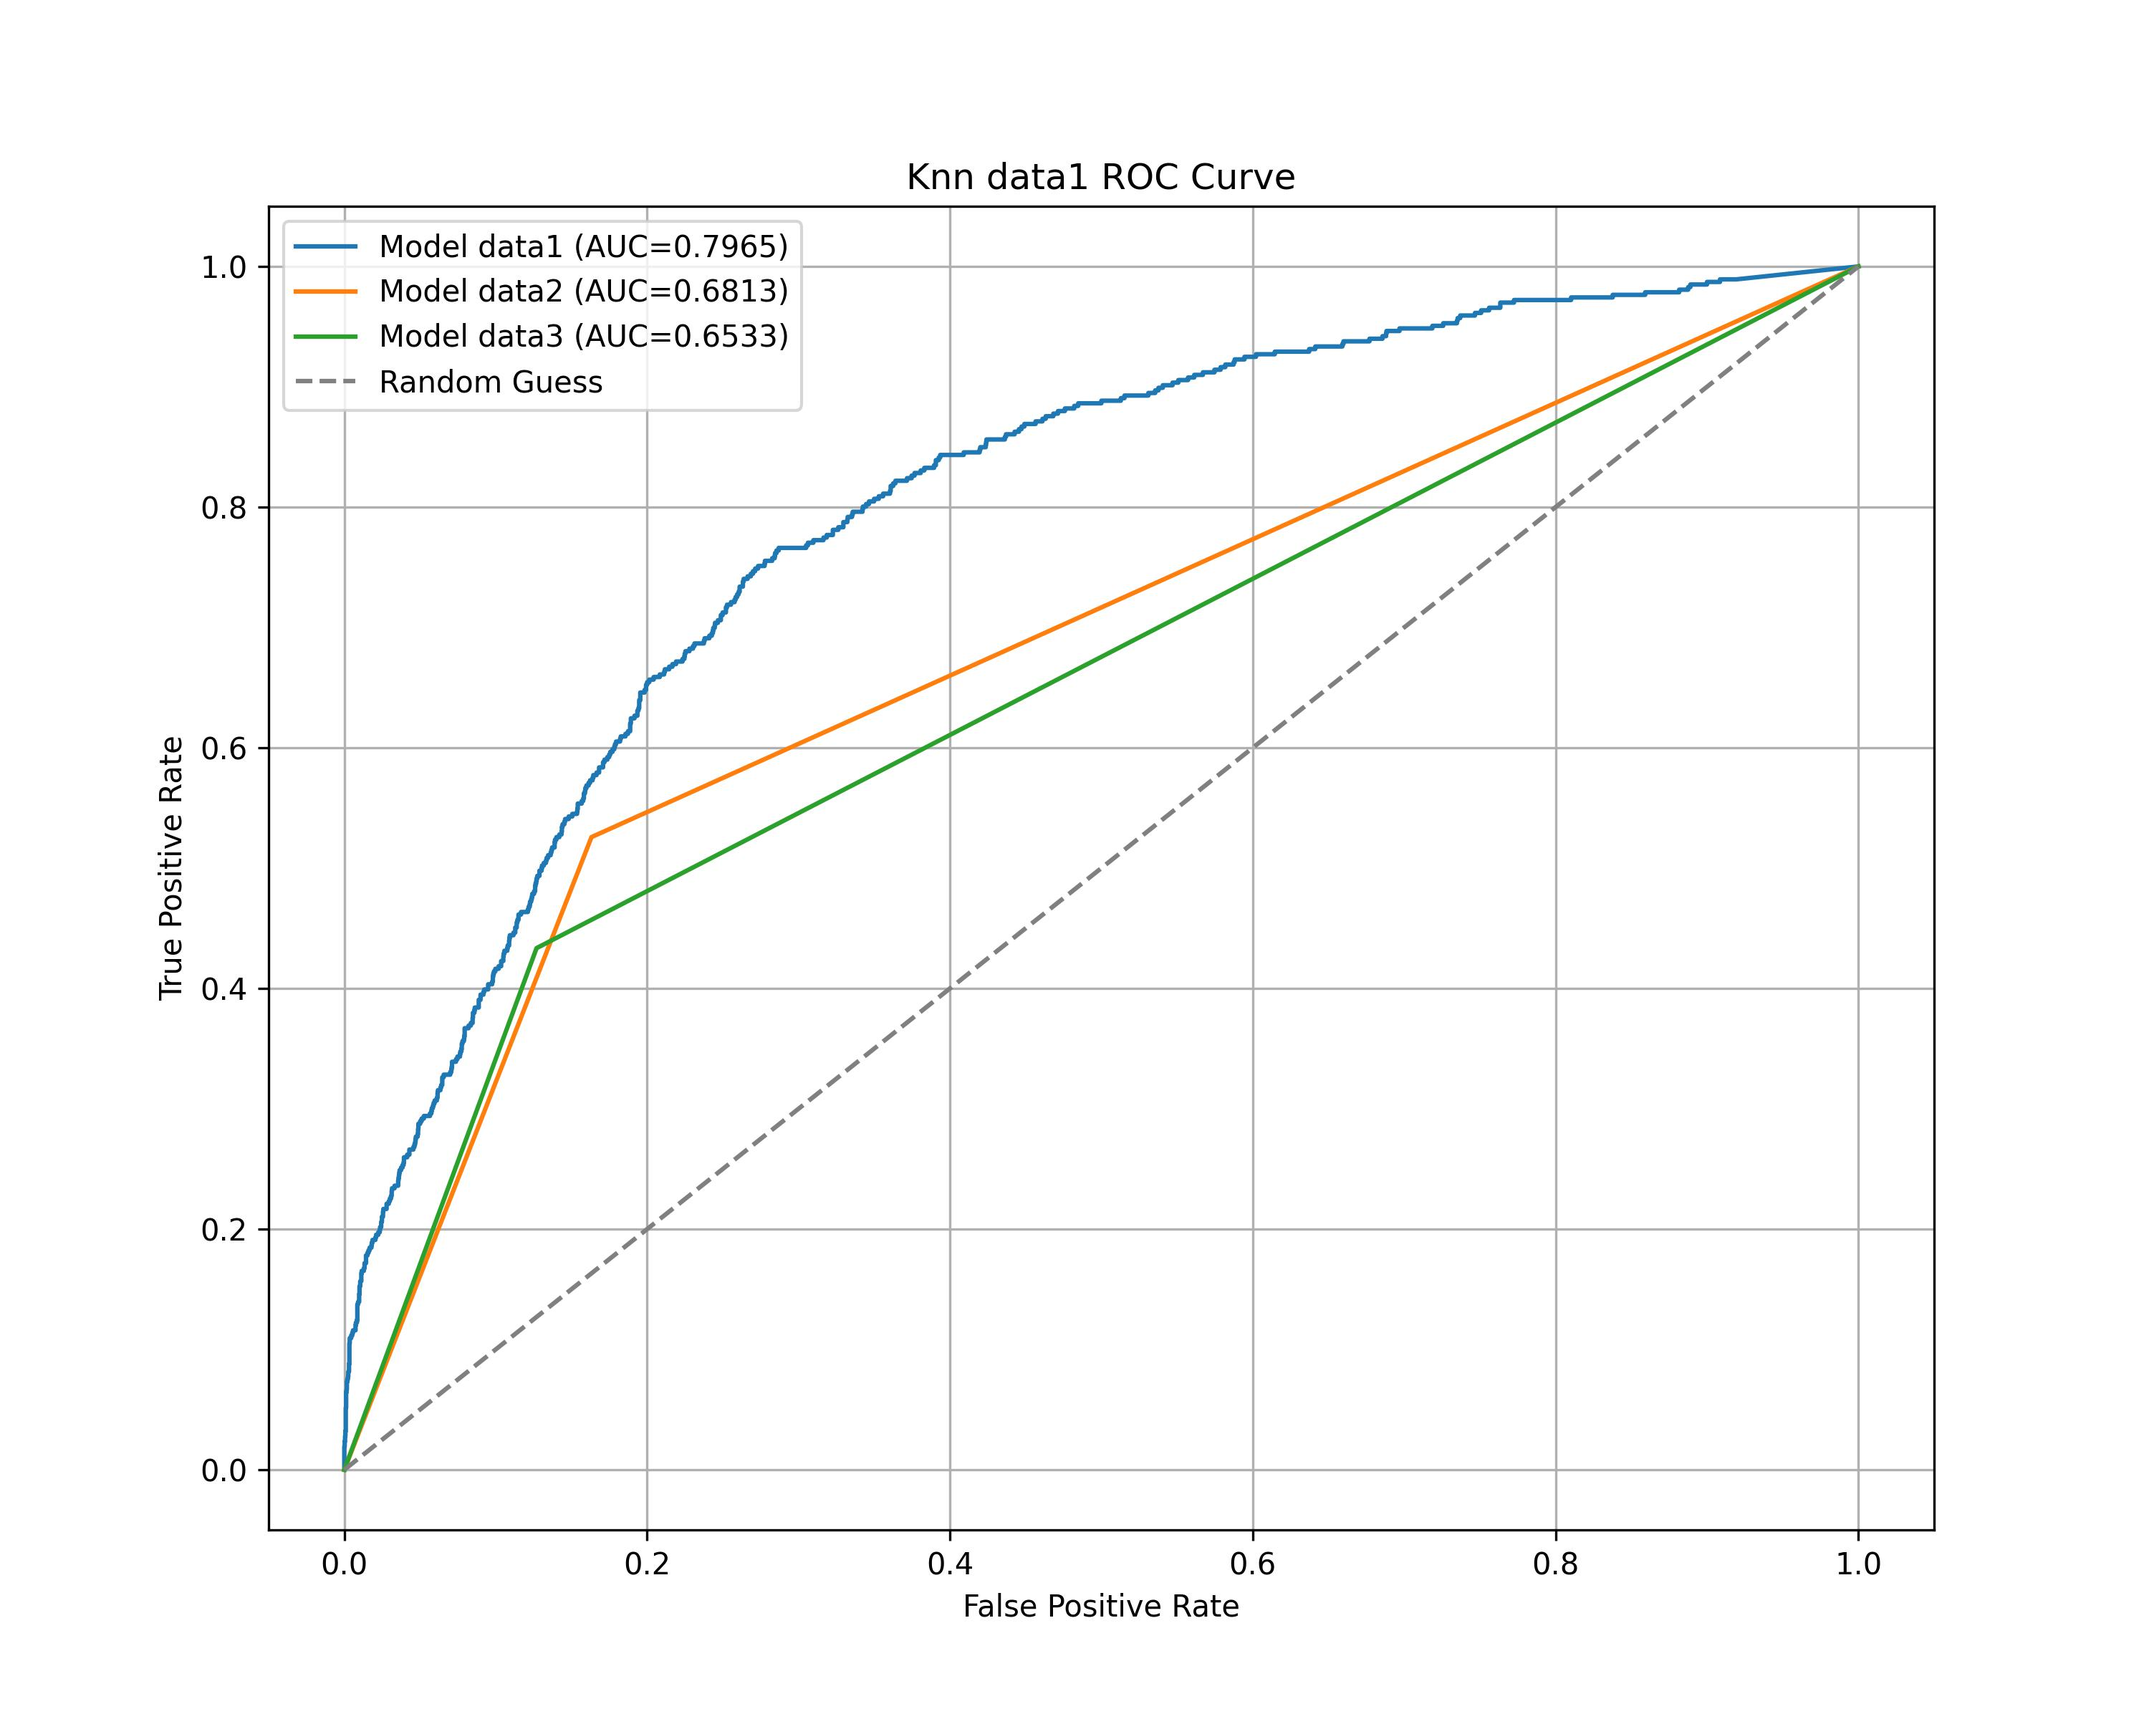
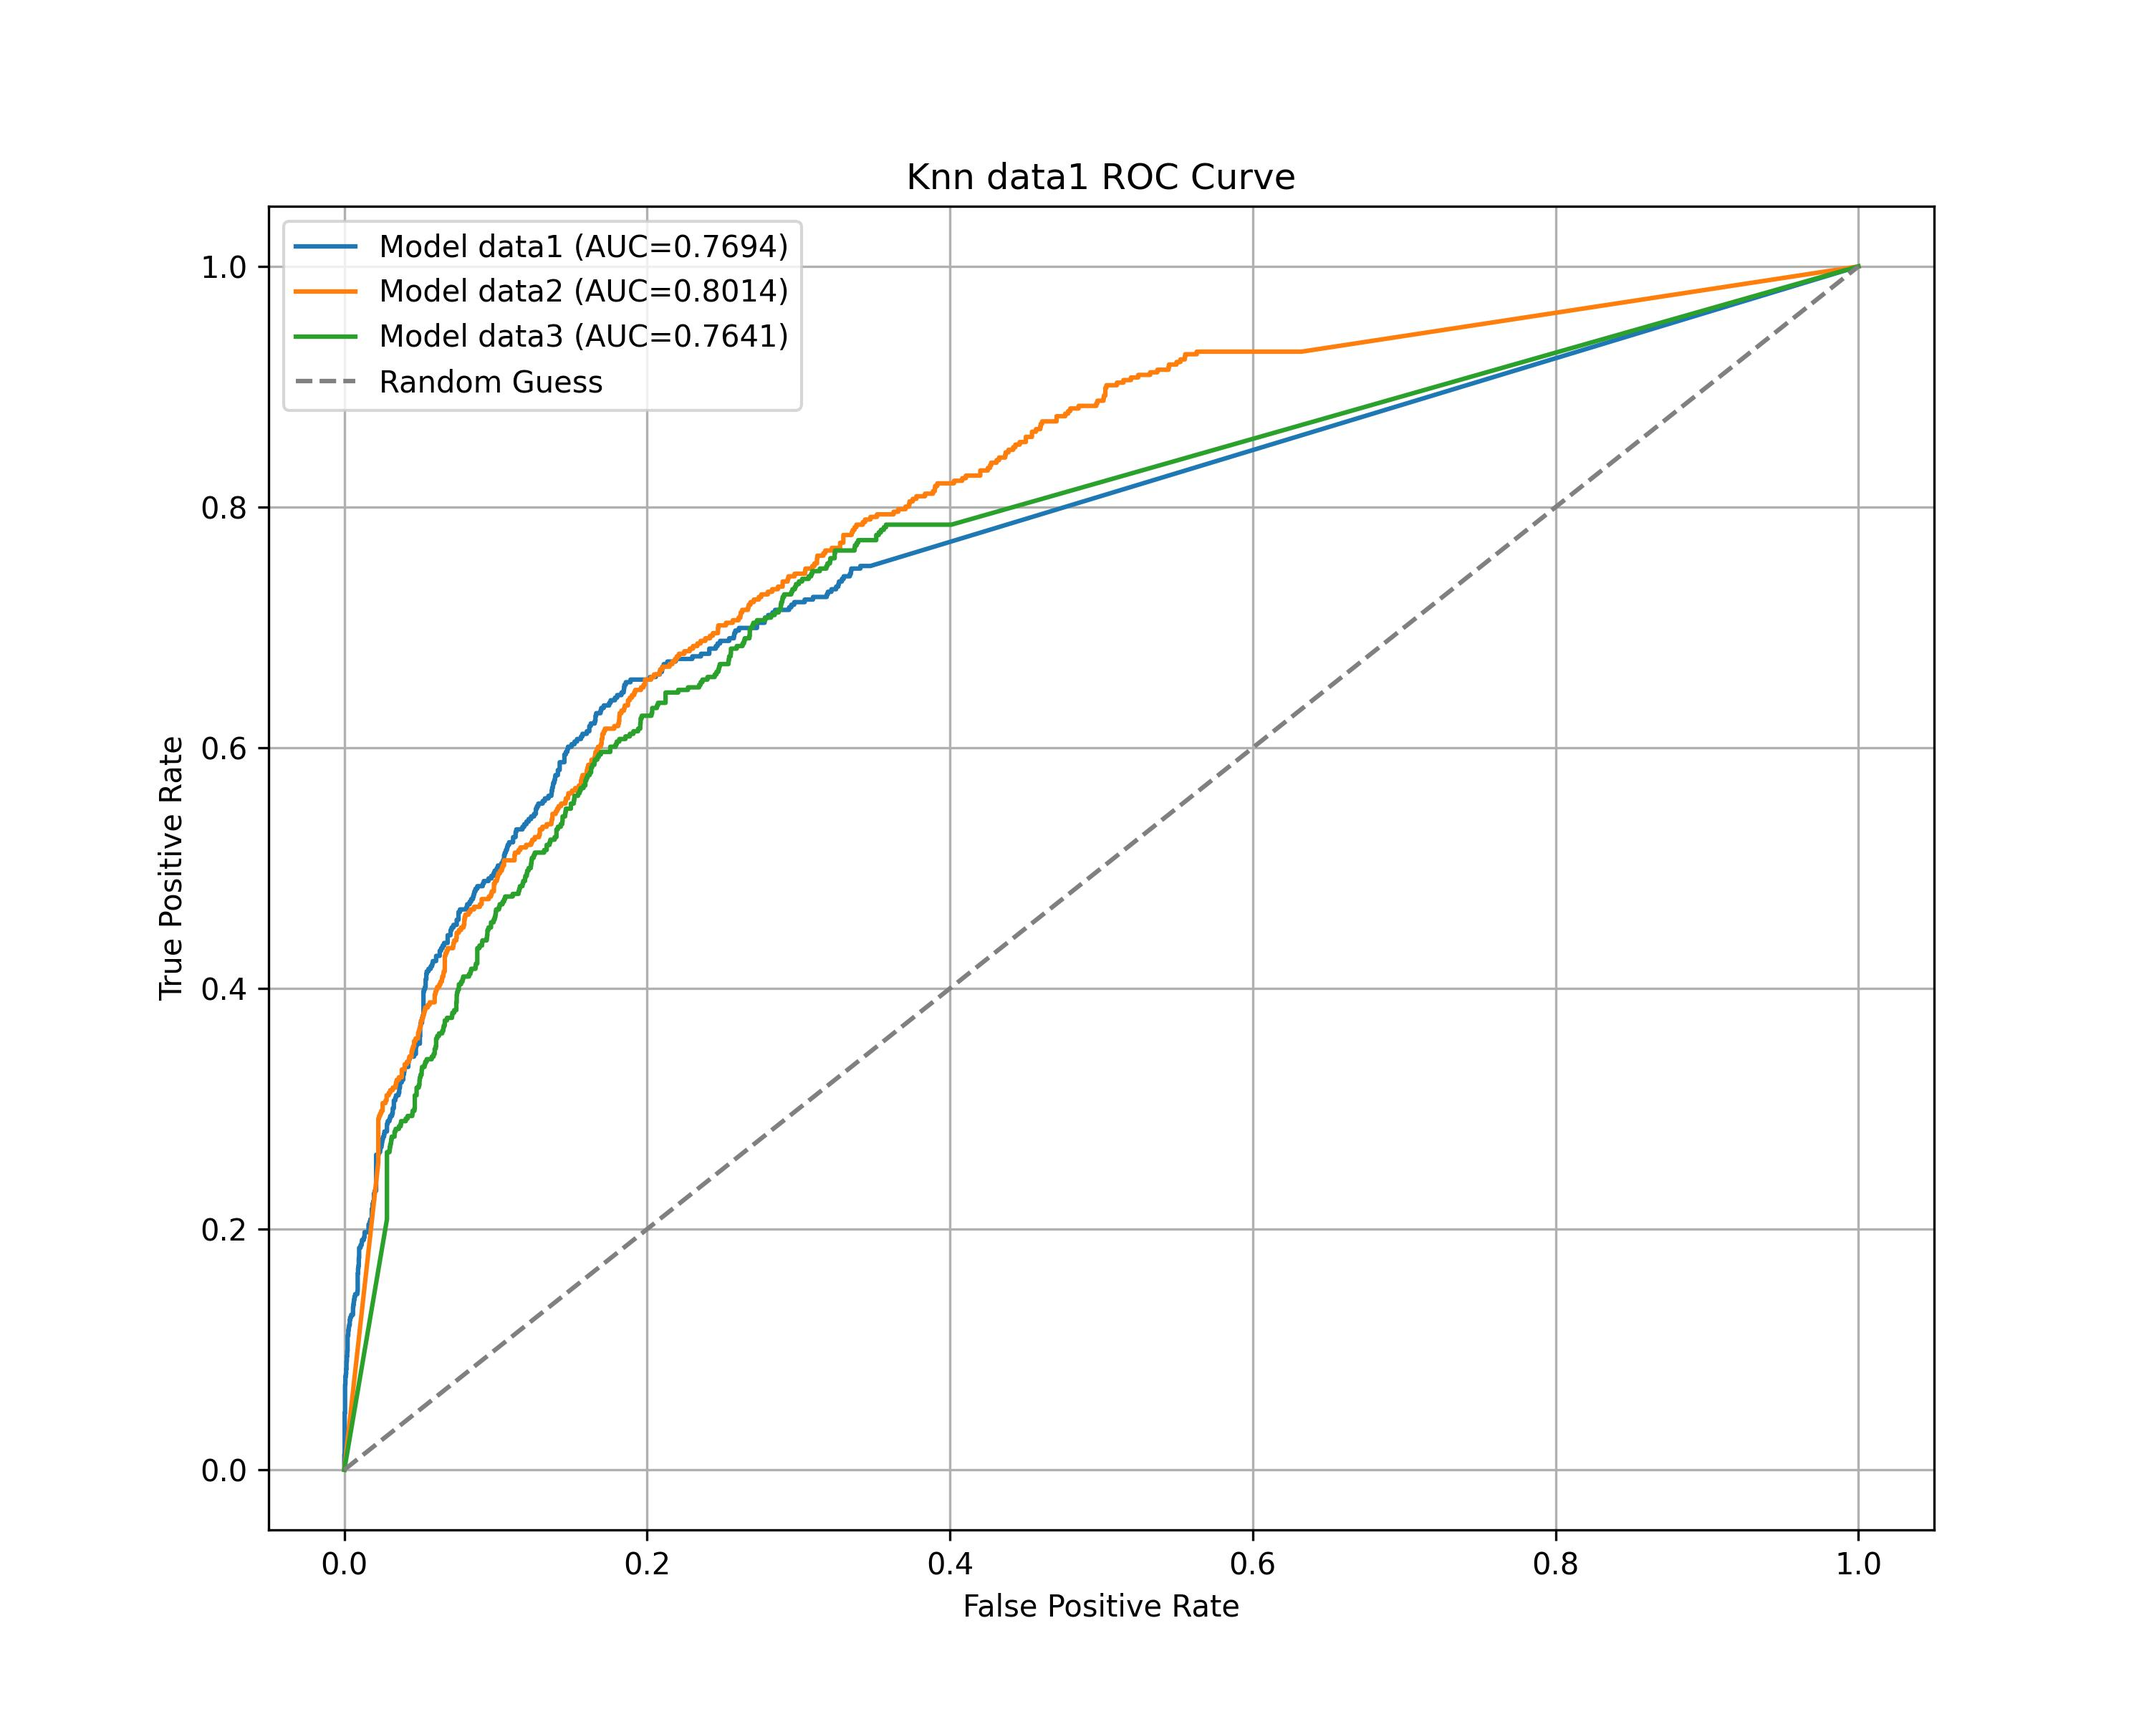
fix knn model bug
wuhu

diff --git a/03-ml-groupProject-code/main_command_test.py b/03-ml-groupProject-code/main_command_test.py
@@ -349,7 +349,7 @@ def search_best_parameter(X, y, model_type="random_forest", cv=5):
         return best_model, param_results
 
     elif model_type == "knn":
-        n_neighbors_range = [1, 100, 200, 1000]
+        n_neighbors_range = [1, 3, 5, 10]
         weights_options = ["uniform", "distance"]
         metric_options = ["minkowski", "manhattan"]
 
